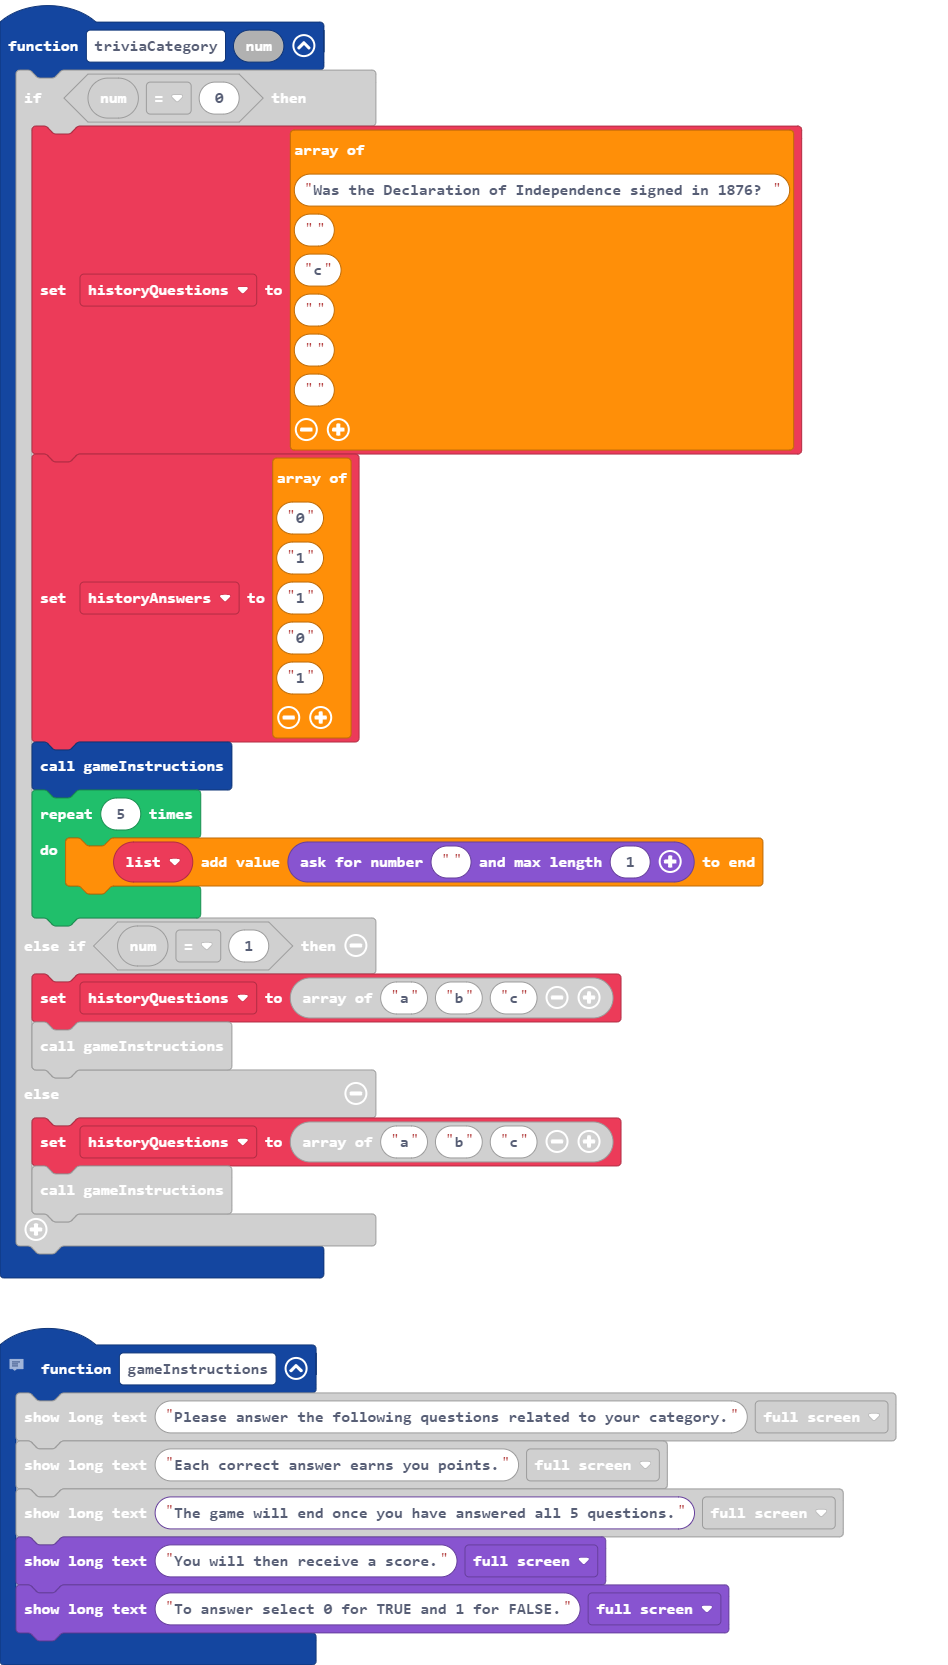
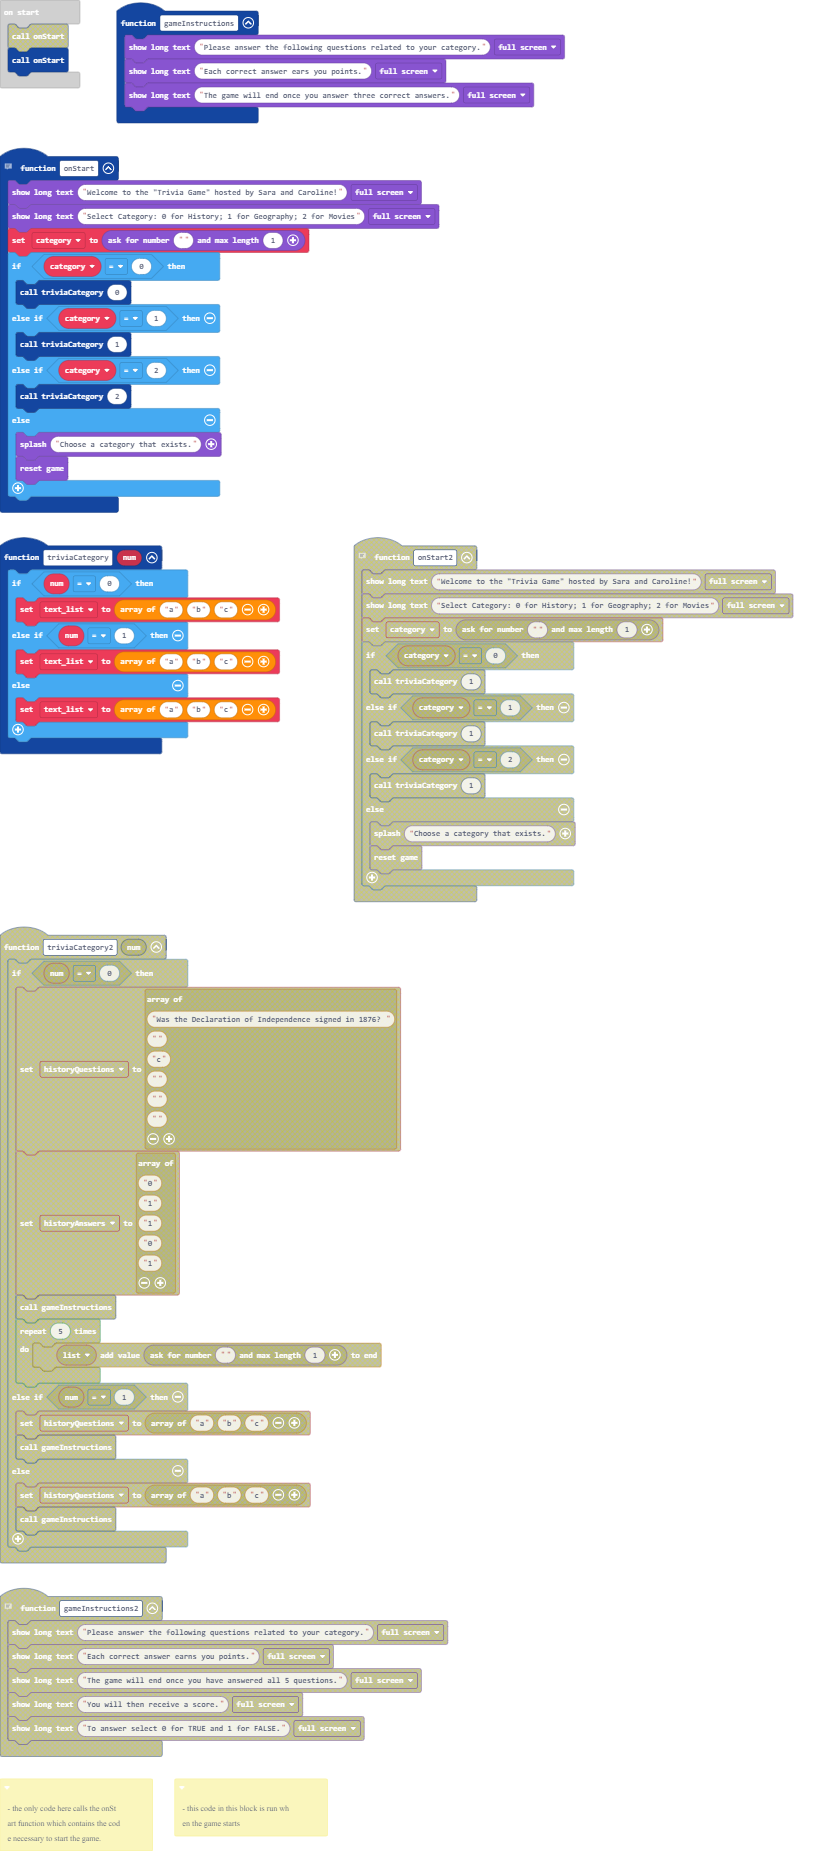
Update main.blocks, main.ts

diff --git a/main.ts b/main.ts
@@ -1,11 +1,13 @@
-// - This function decreases the complexity of the program. 
-// - Since each category will require the same instructions, this function allows for less code to be written and for it to be more easily altered in case of a change or error. 
+/**
+ * - the only code here calls the onStart function which contains the code necessary to start the game.
+ */
+/**
+ * - this code in this block is run when the game starts
+ */
 function gameInstructions () {
     game.showLongText("Please answer the following questions related to your category.", DialogLayout.Full)
-    game.showLongText("Each correct answer earns you points.", DialogLayout.Full)
-    game.showLongText("The game will end once you have answered all 5 questions.", DialogLayout.Full)
-    game.showLongText("You will then receive a score.", DialogLayout.Full)
-    game.showLongText("To answer select 0 for TRUE and 1 for FALSE.", DialogLayout.Full)
+    game.showLongText("Each correct answer ears you points.", DialogLayout.Full)
+    game.showLongText("The game will end once you answer three correct answers.", DialogLayout.Full)
 }
 // - this function contains all the lines of code needed to initiate the game
 // - this shortens the code under the onStart block
@@ -31,36 +33,14 @@ function onStart () {
 }
 function triviaCategory (num: number) {
     if (num == 0) {
-        historyQuestions = [
-        "Was the Declaration of Independence signed in 1876? ",
-        "",
-        "c",
-        "",
-        "",
-        ""
-        ]
-        historyAnswers = [
-        "0",
-        "1",
-        "1",
-        "0",
-        "1"
-        ]
-        gameInstructions()
-        for (let index = 0; index < 5; index++) {
-            let list: number[] = []
-            list.push(game.askForNumber("", 1))
-        }
+        text_list = ["a", "b", "c"]
     } else if (num == 1) {
-        historyQuestions = ["a", "b", "c"]
-        gameInstructions()
+        text_list = ["a", "b", "c"]
     } else {
-        historyQuestions = ["a", "b", "c"]
-        gameInstructions()
+        text_list = ["a", "b", "c"]
     }
 }
-let historyAnswers: string[] = []
-let historyQuestions: string[] = []
+let text_list: string[] = []
 let category = 0
 onStart()
 // - this iteration happens throughout the game
